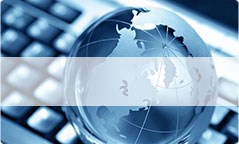
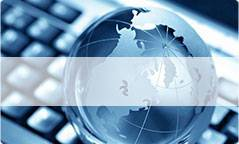
compress img files & optimize website home page style in ie.

diff --git a/src/views/website/pages/home.vue b/src/views/website/pages/home.vue
@@ -66,6 +66,8 @@ export default {
   padding: 10px 0;
   display: flex;
   justify-content: space-evenly;
+  display: -ms-flexbox;
+  -ms-flex-pack: justify;
   align-items: center;
   flex-wrap: wrap;
   & > div {
